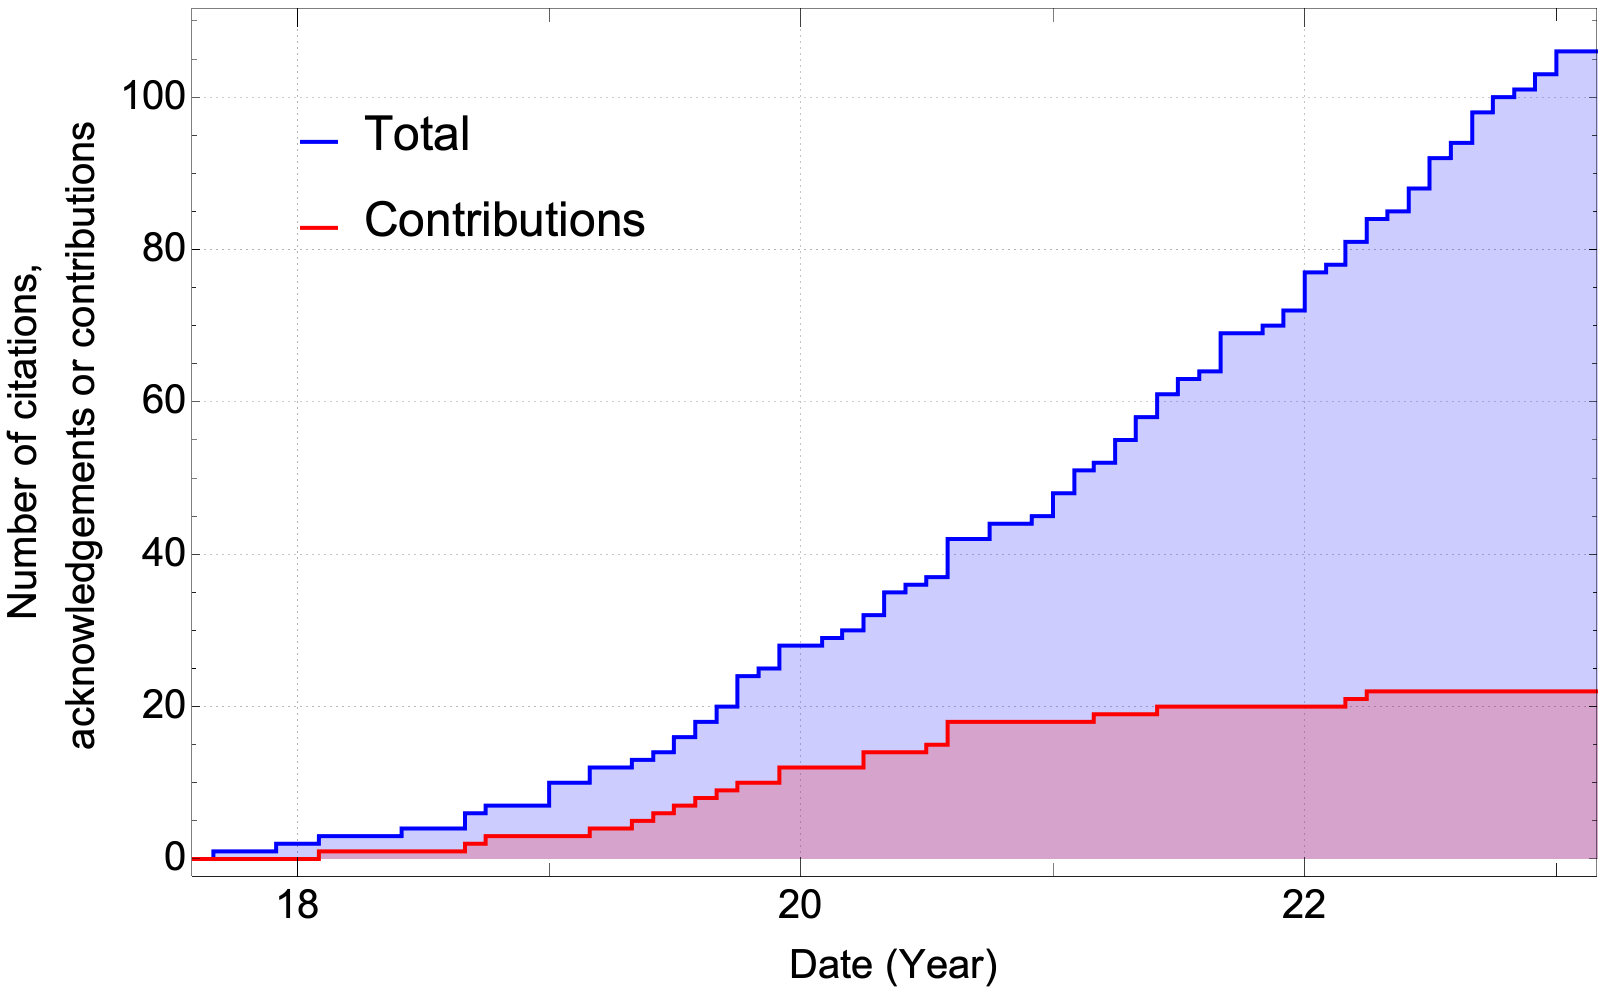
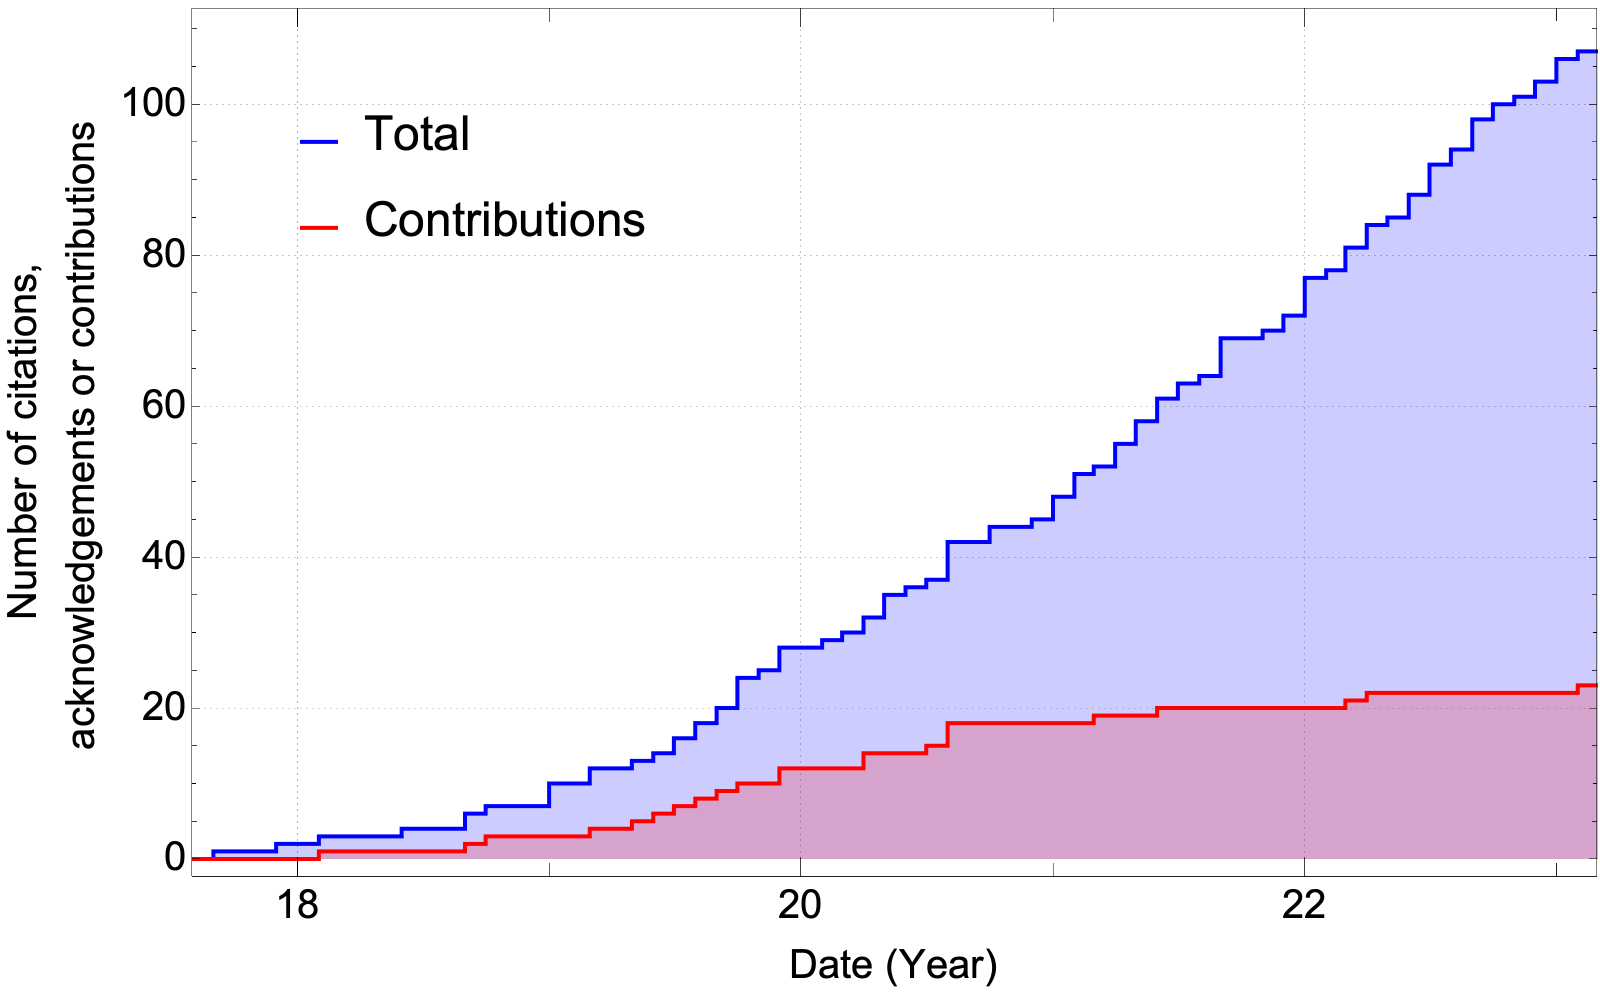
Add paper that cites and extends the Toolkit

diff --git a/users.md b/users.md
@@ -19,6 +19,8 @@ The graph below show the accumulated citations to the Toolkit over time. The blu
 
 Below is a list of research papers that have used or extended the Toolkit. Papers that have contributed code or data to the Toolkit have a (*) after them.
 
+107\. "Kerr-fully Diving into the Abyss: Analytic Solutions to Plunging Geodesics in Kerr", Conor Dyson, Maarten van de Meent, [arXiv:2302.03704](https://arxiv.org/abs/2302.03704) (*)
+
 106\. "Action-Angle formalism for extreme mass ratio inspirals in Kerr spacetime", Morteza Kerachian, Lukáš Polcar, Viktor Skoupý, Christos Efthymiopoulos, Georgios Lukes-Gerakopoulos, [arXiv:2301.08150](https://arxiv.org/abs/2301.08150)
 
 105\. "Remnant black hole properties from numerical-relativity-informed perturbation theory and implications for waveform modelling", Tousif Islam, Scott E. Field, Gaurav Khanna, [arXiv:2301.07215](https://arxiv.org/abs/2301.07215)
